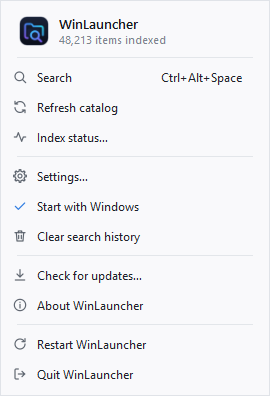
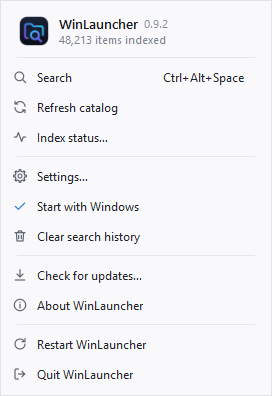
Release 0.9.2: version in the tray menu, faster parallel CI
- The tray menu shows the version next to WinLauncher's name.
- First release through the parallel CI: the Rust wheel is built once and
  every test job runs at the same time; the release publishes the packages of
  the tagged commit's CI run instead of building and testing them again.

diff --git a/winlauncher/__init__.py b/winlauncher/__init__.py
@@ -1,3 +1,3 @@
 """WinLauncher: an independent, local Windows launcher."""
 
-__version__ = "0.9.1"
+__version__ = "0.9.2"

diff --git a/README.md b/README.md
@@ -77,7 +77,7 @@ Explorer & dialogs**.
 a `winlauncher` command that starts without a console window:
 
 ```powershell
-pipx install "winlauncher[rust] @ git+https://github.com/bjspi/WinLauncher.git@v0.9.1"
+pipx install "winlauncher[rust] @ git+https://github.com/bjspi/WinLauncher.git@v0.9.2"
 winlauncher --show
 ```
 
